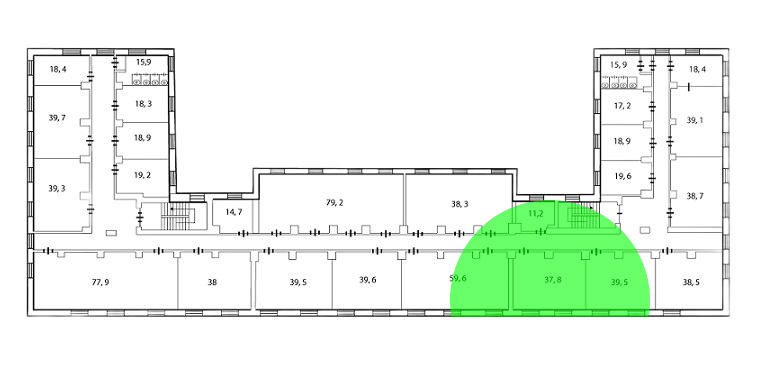
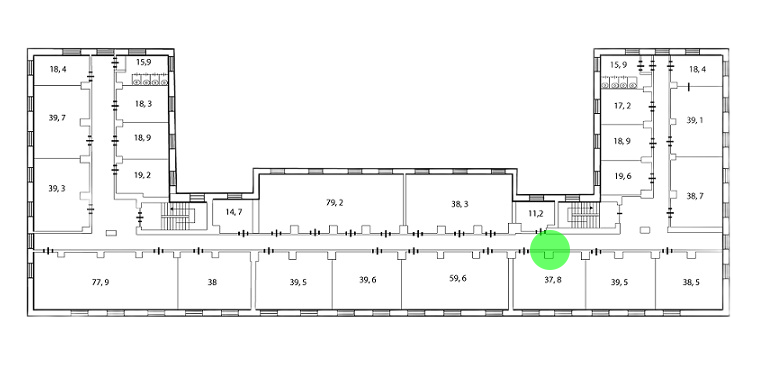
Add pictures about idea of project

Changed region(s): [[0.5758, 0.5183, 0.8788, 0.8351]]

diff --git a/client/main.js b/client/main.js
@@ -1,21 +1,26 @@
-window.onload = function() {
-    var input = document.getElementById('input');
-    input.addEventListener('change', handleFiles);
-}
+const canvas = document.getElementById('canvas');
+const ctx = canvas.getContext('2d');
 
-function handleFiles(e) {
-    var ctx = document.getElementById('canvas').getContext('2d');
-    var url = URL.createObjectURL(e.target.files[0]);
-    var img = new Image();
-    img.onload = function() {
-        ctx.drawImage(img, 0, 0, 600, 400);
-    }
-    img.src = url;
-}
+// Рисуем фон
+ctx.fillStyle = '#FD0';
+ctx.fillRect(0, 0, 75, 75);
+ctx.fillStyle = '#6C0';
+ctx.fillRect(75, 0, 75, 75);
+ctx.fillStyle = '#09F';
+ctx.fillRect(0, 75, 75, 75);
+ctx.fillStyle = '#F30';
+ctx.fillRect(75, 75, 75, 75);
+ctx.fillStyle = '#FFF';
 
-$('.canvas').click(function(e){
-    var target = this.getBoundingClientRect();
-    var x = e.clientX - target.left;
-    var y = e.clientY - target.top;
-    $('#coord-click').html(x + ', ' + y);
-});
+// Устанавливаем уровень прозрачности
+ctx.globalAlpha = 0.8;
+
+// Рисуем круги
+ctx.fillStyle = 'blue';
+ctx.fillRect(70, 70, 100, 100);
+
+// for (let i = 0; i < 7; i++) {
+//     ctx.beginPath();
+//     ctx.arc(75, 75, 10 + 10 * i, 0, Math.PI * 2, true);
+//     ctx.fill();
+// }

diff --git a/client/main.html b/client/main.html
@@ -6,11 +6,7 @@
     <link rel="stylesheet" href="style.css">
 </head>
 <body>
-        <input type="file" id="input"/>
-        <div class="frame">
-        <canvas width="900" height="600" id="canvas">Kek </canvas>
-        <div id="status"></div>
-    </div>
+<canvas id="canvas"></canvas>
     <script type="text/javascript" src="https://chir.ag/projects/ntc/ntc.js"></script>
     <script src="https://yastatic.net/jquery/3.3.1/jquery.min.js"></script>
     <script src="main.js"></script>

diff --git a/test_pictures/main.go b/test_pictures/main.go
@@ -2,34 +2,73 @@ package main
 
 import (
 	"github.com/fogleman/gg"
+	"github.com/sirupsen/logrus"
+	"github.com/tfriedel6/canvas/sdlcanvas"
 	"image/color"
+	"math"
+)
+
+var (
+	path2 = "./test_pictures/floor.png"
+	n     = 320
 )
 
 func main() {
-	dc := gg.NewContext(400, 400)
+	im, err := gg.LoadPNG(path2)
+	if err != nil {
+		logrus.Fatal(err)
+	}
+	wnd, _, err := sdlcanvas.CreateWindow(1280, 720, "Hello")
+	if err != nil {
+		panic(err)
+	}
+	defer wnd.Destroy()
 
-	grad1 := gg.NewConicGradient(200, 200, 0)
-	grad1.AddColorStop(0.0, color.Black)
-	grad1.AddColorStop(0.5, color.RGBA{255, 215, 0, 255})
-	grad1.AddColorStop(1.0, color.RGBA{255, 0, 0, 255})
+	var x, y, r float64 = 200, 200, 800
+	var rotation float64 = 20
+	angle := 2 * math.Pi / float64(n)
+	rotation -= math.Pi / 2
 
-	grad2 := gg.NewConicGradient(200, 200, 90)
-	grad2.AddColorStop(0.00, color.RGBA{255, 0, 0, 255})
-	grad2.AddColorStop(0.16, color.RGBA{255, 255, 0, 255})
-	grad2.AddColorStop(0.33, color.RGBA{0, 255, 0, 255})
-	grad2.AddColorStop(0.50, color.RGBA{0, 255, 255, 255})
-	grad2.AddColorStop(0.66, color.RGBA{0, 0, 255, 255})
-	grad2.AddColorStop(0.83, color.RGBA{255, 0, 255, 255})
-	grad2.AddColorStop(1.00, color.RGBA{255, 0, 0, 255})
+	ctx := gg.NewContextForImage(im)
+	var colorCircle color.RGBA
+	logrus.Info(colorCircle)
+	for j := 0; j < 1; j++ {
+		nr := r / 5
+		if j == 0 {
+			colorCircle = color.RGBA{R: 255, G: 0, B: 0, A: 254}
+		}
+		if j == 1 {
+			nr += nr
+			colorCircle = color.RGBA{G: 255}
+		}
+		ctx.NewSubPath()
+		for i := 0; i < n; i++ {
+			a := angle * float64(i)
+			cos := math.Cos(a)
+			sin := math.Sin(a)
+			if i == 0 {
+				ctx.MoveTo(x+nr, y)
+				continue
+			}
+			ctx.LineTo(x+nr*cos, y+nr*sin)
+			ctx.SetColor(color.Alpha16{0})
+		}
+		ctx.Fill()
+	}
+	ctx.SavePNG("gradient-conic.png")
+}
 
-	dc.SetStrokeStyle(grad1)
-	dc.SetLineWidth(20)
-	dc.DrawCircle(200, 200, 180)
-	dc.Stroke()
-
-	dc.SetFillStyle(grad2)
-	dc.DrawCircle(200, 200, 150)
-	dc.Fill()
-
-	dc.SavePNG("gradient-conic.png")
+func gradient() {
+	im, err := gg.LoadPNG(path2)
+	if err != nil {
+		logrus.Fatal(err)
+	}
+	c := gg.NewRadialGradient(100, 75, 5, 100, 75, 75)
+	c.AddColorStop(0, color.White)
+	c.AddColorStop(1, color.RGBA{B: 255, A: 255})
+	ctx := gg.NewContextForImage(im)
+	ctx.DrawArc(100, 75, 60, 0, 2*math.Pi)
+	ctx.SetFillStyle(c)
+	ctx.Fill()
+	ctx.SavePNG("gradient-conic.png")
 }

diff --git a/main.go b/main.go
@@ -37,25 +37,66 @@ func drawShapes(infile image.Image, dc *gg.Context, x, y, rx, ry, angle1, angle2
 		rotation += angle / 2
 	}
 	dc.NewSubPath()
+	var j int64
 	for i := 0; i < n; i++ {
 		a := rotation + angle*float64(i)
 		color, err := detectColorOfPixel(infile, x+r*math.Cos(a), y+r*math.Sin(a))
 		if err != nil {
 			logrus.Fatal(err)
 		}
-		if !color {
-			//logrus.Info("1qwe")
-			//logrus.Info(x+r*math.Cos(a), y+r*math.Sin(a))
-			//logrus.Info("2qwe")
-			//dc.SetRGBA255(255, 0, 0, 150)
-			//dc.LineTo(x+r*math.Cos(a), y+r*math.Sin(a))
-			continue
+		if !color && j == 0 {
+			dc.SetRGBA255(255, 0, 0, 150)
+			j++
+		}
+		if color && j == 0 {
+			dc.SetRGBA255(0, 255, 0, 150)
 		}
 		dc.LineTo(x+r*math.Cos(a), y+r*math.Sin(a))
-		dc.SetRGBA255(0, 255, 0, 150)
 	}
 	dc.ClosePath()
 }
+
+//func drawShapes(infile image.Image, dc *gg.Context, x, y, rx, ry, angle1, angle2 float64) {
+//	const n = 360
+//	var rotation float64 = 20
+//	var r float64 = getRadius()
+//	angle := 2 * math.Pi / float64(n)
+//	rotation -= math.Pi / 2
+//	if n%2 == 0 {
+//		rotation += angle / 2
+//	}
+//	dc.NewSubPath()
+//	for i := 0; i < n; i++ {
+//		if i == 287 {
+//			break
+//		}
+//		a := rotation + angle*float64(i)
+//		color, err := detectColorOfPixel(infile, x+r*math.Cos(a), y+r*math.Sin(a))
+//		if err != nil {
+//			logrus.Fatal(err)
+//		}
+//		if !color {
+//			j := 0.0
+//			for {
+//				color, err := detectColorOfPixel(infile, x - j+r*math.Cos(a), y - j+r*math.Sin(a))
+//				if err != nil {
+//					logrus.Fatal(err)
+//				}
+//				if color {
+//					break
+//				}
+//				j++
+//			}
+//			dc.SetRGBA255(255, 0, 0, 255)
+//			dc.LineTo(x - j+r*math.Cos(a), y- j+r*math.Sin(a))
+//		} else {
+//			dc.SetRGBA255(0, 255, 0, 150)
+//		}
+//		dc.LineTo(x+r*math.Cos(a), y+r*math.Sin(a))
+//		dc.FillPreserve()
+//	}
+//	dc.ClosePath()
+//}
 
 func detectColorOfPixel(img image.Image, x, y float64) (bool, error) {
 	pixel, err := getPixels(img, x, y)
@@ -69,11 +110,11 @@ func detectColorOfPixel(img image.Image, x, y float64) (bool, error) {
 }
 
 func getPointOfRouter() (float64, float64) {
-	return 650, 300
+	return 550, 250
 }
 
 func getRadius() float64 {
-	return 100
+	return 20
 }
 
 func getPixels(img image.Image, x, y float64) (Pixel, error) {
